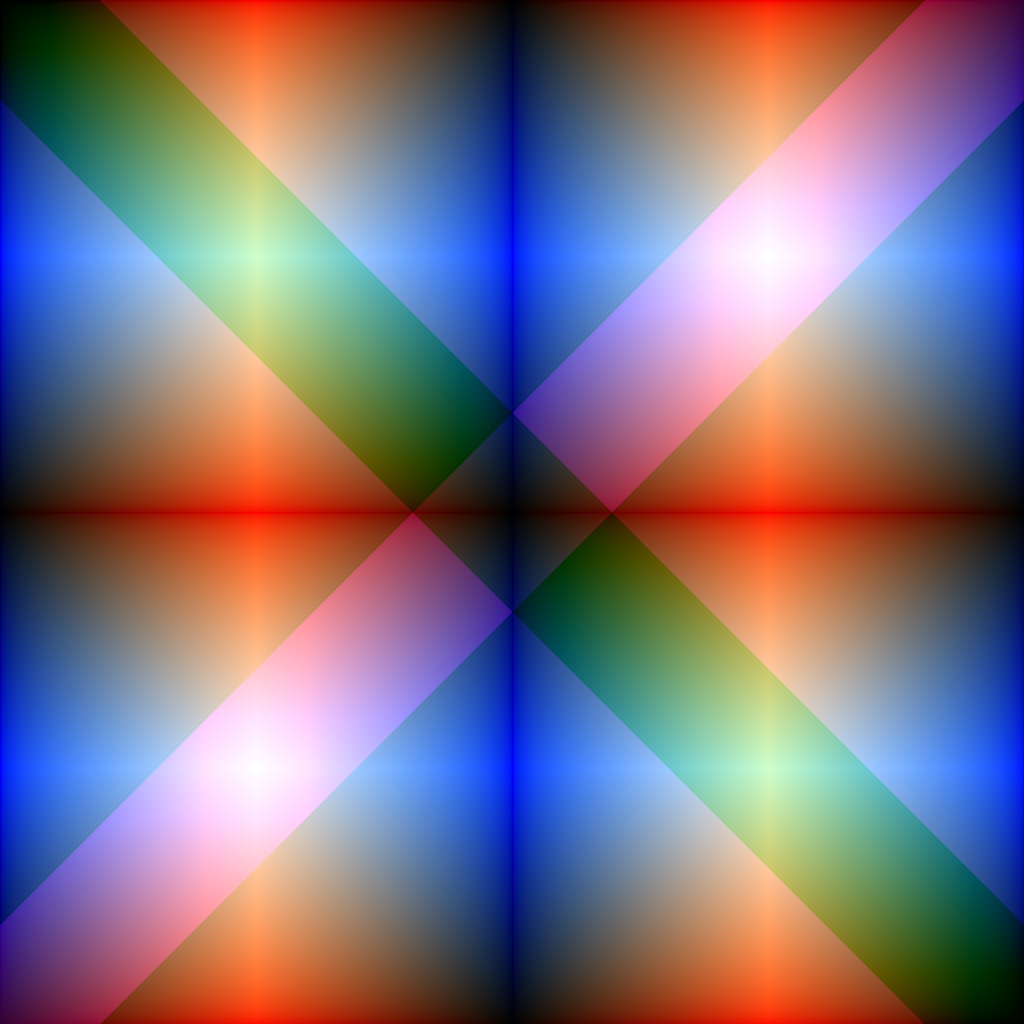
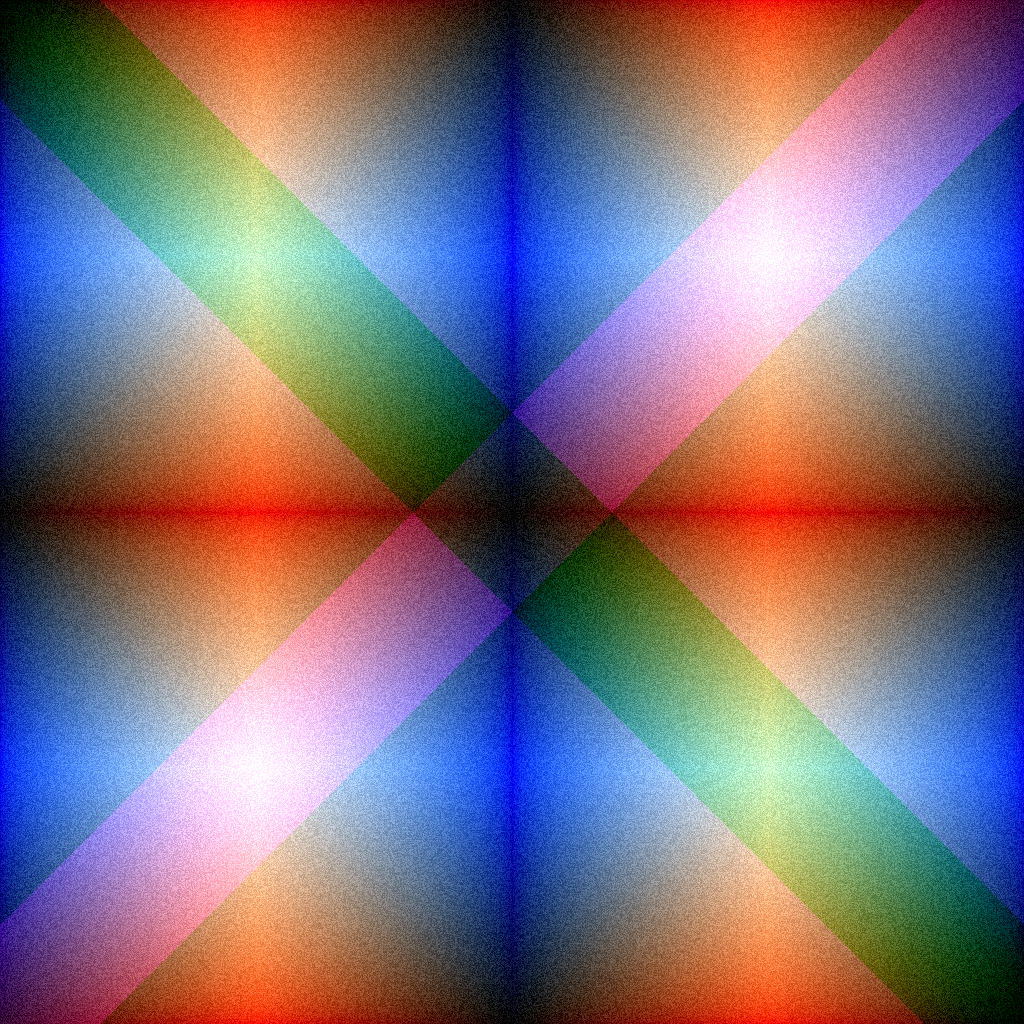
Noised crossed squares

diff --git a/generate.py b/generate.py
@@ -34,6 +34,12 @@ def pixel(x,y):
 #        red = 0
 #        blue = 0
 
+    rf = 25
+    r = random.randint(-rf, rf)
+    red += r
+    green += r
+    blue += r
+
     return (math.floor(red), math.floor(green), math.floor(blue))
 
 #def in_image(p):
